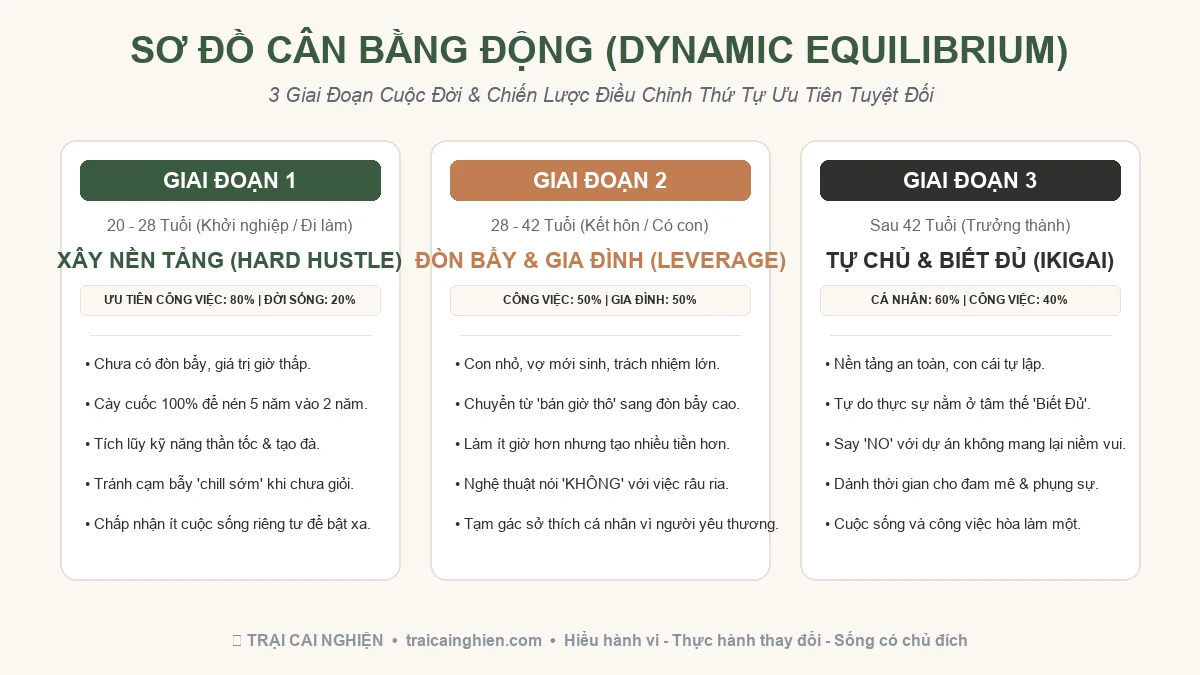
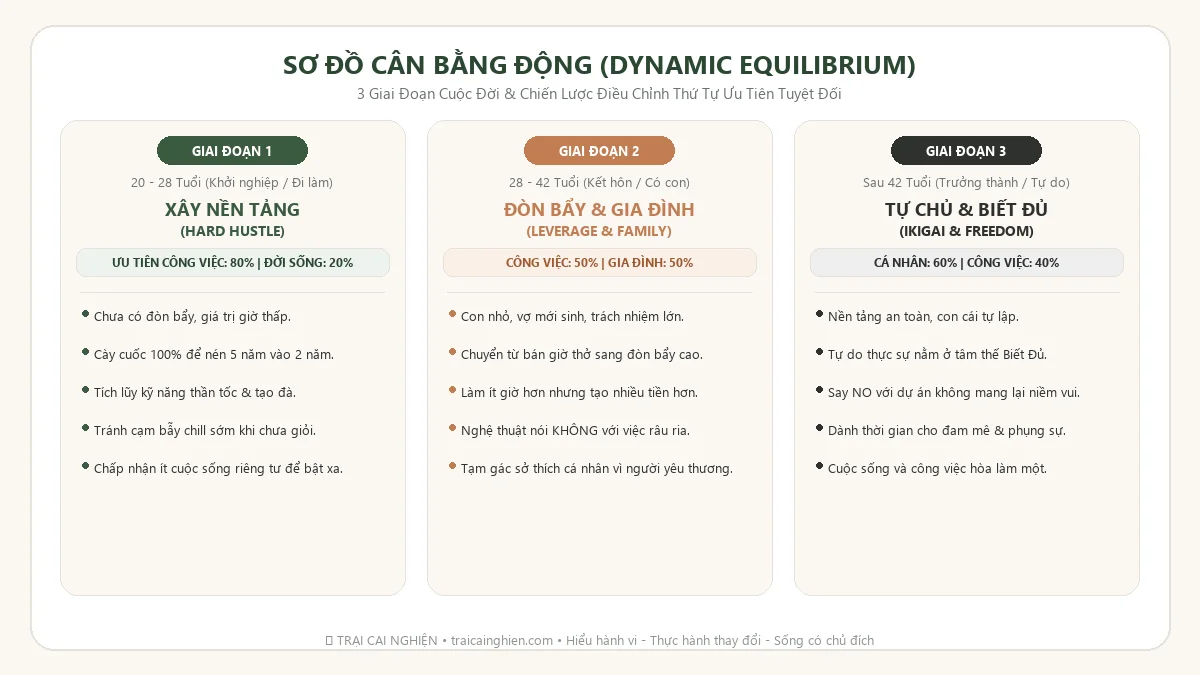
fix(article): standardize Zen watercolor thumbnail, eliminate raw tables, and fix infographic text overflow

diff --git a/src/data/articles.ts b/src/data/articles.ts
@@ -33,7 +33,7 @@ const rawArticles: Article[] = [
   ],
   "date": "31/10/2026",
   "readTime": "18 phút đọc",
-  "content": "Chưa đầy một tiếng sau khi chuông báo thức réo inh ỏi lúc 7h sáng, bạn đã thấy ngày mới của mình sụp đổ hoàn toàn trước những dự định lung linh tối qua.\n\nTối hôm trước, bạn lướt mạng xã hội và thấy video của một “lifestyle influencer”: 5h30 sáng dậy thiền định trong căn phòng ngập nắng, 6h chạy bộ 5km quanh công viên đón bình minh, 7h về nhà tự tay nướng bánh mì chua, pha ly nước ép cần tây xanh mướt, 8h ngồi vào bàn làm việc gỗ sồi với ly latte bốc khói, làm việc tập trung không ngắt quãng đến 17h chiều, tối về thong thả nấu bữa tối chuẩn Eat Clean, 21h đọc 50 trang sách triết học và 22h chìm vào giấc ngủ không mộng mị.\n\nBạn nhìn lại buổi sáng của mình: \n\nChuông reo từ 6h30 nhưng bạn tắt đi bấm hoãn 4 lần, mãi đến 7h15 mới bò ra khỏi chăn với đôi mắt cay xè vì tối qua trót cày nốt 3 tập phim Netflix đến gần 1h đêm. Bạn lao vào toilet đánh răng như đánh trận, vừa chải răng vừa lướt vội bảng tin Facebook. Con cái khóc ré lên vì tranh nhau cái áo, cặp sách chưa soạn xong, tiếng vợ giục giã inh ỏi trong bếp. \n\nBạn dắt xe ra đường và lập tức bị nuốt chửng bởi dòng người nghẹt thở ở ngã tư tắc đường. Dừng lại mua vội cái bánh mì kẹp thịt hay gói xôi lạc ven đường, bạn thậm chí không dám mua xôi xéo hành phi vì sợ mang lên công ty mùi mỡ sẽ ám khắp phòng khiến đồng nghiệp nhăn mặt. \n\n8h30 có mặt ở văn phòng, mở máy tính lên là một đống tin nhắn Zalo, Teams, Slack thông báo công việc dồn dập. Cái nào trông cũng khẩn cấp, nhưng não bạn thì tê liệt. Bạn lướt vu vơ vài tab chứng khoán, đọc lướt mấy tin giật gân, xem vài video short giải trí và giật mình nhận ra đã 11h trưa mà chưa làm xong nổi một việc ra hồn. \n\nBuổi chiều họp hành triền miên. 17h30 định xách túi về thì sếp gọi giao thêm việc gấp. Bạn ngồi lại cày đến 20h tối, bụng đói cồn cào đành tạt qua cửa hàng tiện lợi mua cái bánh bao trứng cút với lon nước ngọt ngồi ăn tạm bợ trên vỉa hè lộng gió. 21h30 về đến nhà, con đã ngủ say, vợ mệt mỏi nằm trên sofa, bồn bát đĩa vẫn ngổn ngang. Bạn lại lôi laptop ra gõ lạch cạch đến nửa đêm trong nỗi chán chường và tội lỗi ngập tràn:\n\n*“Sao cuộc đời mình lại nát thế này? Tại sao người khác vừa kiếm được tiền, vừa có thời gian tập gym, chăm con chu đáo mà mình đến một chút cân bằng tối thiểu cho bản thân cũng không làm nổi?”*\n\nNếu bạn đang mang trong mình sự dằn vặt đó, Trại Cai Nghiện muốn nói thẳng với bạn một sự thật giải thoát: **Work-Life Balance (Cân bằng giữa công việc và cuộc sống theo cách người ta vẫn rao giảng trên mạng) là một cú lừa hoàn hảo nhất thời hiện đại.**\n\nKhông có bất kỳ ai sống một đời thực tế mà có thể chia đều 24 giờ mỗi ngày thành những chiếc hộp ngăn nắp, hoàn hảo như tranh vẽ. Cái mà bạn cần không phải là sự cân bằng tĩnh học không tưởng đó. Cái mà bạn cần để cứu lấy sức khỏe tinh thần và sự nghiệp của mình là: **Nghệ thuật Cân Bằng Động (Dynamic Equilibrium) — Biết cách chọn chiến thắng ở từng thời điểm của cuộc đời.**\n\n---\n\n### 1. Cạm Bẫy Của Khái Niệm \"Work-Life Balance\"\n\nKhái niệm \"Cân bằng giữa công việc và cuộc sống\" bắt đầu bùng nổ từ cuối thế kỷ 20 tại phương Tây, xuất phát từ mong muốn chính đáng là bảo vệ người lao động khỏi sự bóc lột của các tập đoàn công nghiệp. Tuy nhiên, khi bước vào kỷ nguyên số hóa và mạng xã hội, khái niệm này đã bị biến tướng thành một tiêu chuẩn đạo đức độc hại.\n\nSự độc hại này bắt nguồn từ hai sai lầm nhận thức cốt tử:\n\n#### Sai lầm 1: Sự phân tách nhân tạo giữa \"Công việc\" và \"Cuộc sống\"\nCụm từ \"Work vs. Life\" ngầm mặc định rằng: **Công việc nằm ở một bên chiến tuyến, còn Cuộc sống nằm ở bên kia.** \n* Đi làm tức là đang bị đày đọa, đánh mất cuộc sống?\n* Còn về nhà, đi chơi, nằm dài thì mới được tính là \"đang sống\"?\n\nThực tế sinh học và xã hội không hề vận hành như vậy. **Công việc chính là một phần hữu cơ của cuộc sống.** \n\nLao động là nơi con người tạo ra giá trị, khẳng định năng lực bản thân, xây dựng các mối quan hệ xã hội và tìm kiếm ý nghĩa tồn tại (như tháp nhu cầu Maslow hay triết lý Ikigai). Không có một chiếc bút thần thánh nào của tạo hóa có thể kẻ một lằn ranh tuyệt đối cắt đôi một con người: từ 8h đến 17h là \"con robot công việc\", còn từ 17h đến 23h là \"con người gia đình\".\n\nChính tư duy nhị nguyên (chia đôi) này đã tạo ra **Căng thẳng đóng vai (Role Strain)** và **Cảm giác tội lỗi mãn tính (Chronic Guilt)** ở hàng triệu người:\n* Khi bạn đang ở văn phòng cày dự án, một phần tâm trí bạn lại lo lắng: *“Mình lại về muộn rồi, mình là một người cha/người mẹ tồi, mình không biết cân bằng cuộc sống.”*\n* Khi bạn đang ngồi ăn cơm với vợ con hoặc đi cà phê với bạn bè, chuông điện thoại rung lên một tin nhắn công việc khẩn cấp, bạn vừa gõ máy trả lời vừa cảm thấy tội lỗi vì không dành trọn vẹn sự chú ý cho gia đình.\n\nBạn như một người đứng trên một chiếc dây kéo căng giữa hai bờ vực: nghiêng sang bên nào cũng thấy mình có lỗi. Bạn kiệt sức không phải vì làm việc quá nhiều, mà vì năng lượng tinh thần bị bòn rút bởi cảm giác dằn vặt thường trực.\n\n#### Sai lầm 2: Tình huống đời thực không bao giờ có sự cân bằng 50/50\nHãy thử tưởng tượng hai tình huống thực tế sau đây và tự hỏi xem bạn sẽ chọn cái gì:\n\n* **Tình huống A:** Bạn đang chủ trì một cuộc họp chiến lược cực kỳ quan trọng với ban giám đốc và đối tác nước ngoài. Bỗng nhiên, cô giáo mầm non gọi điện hốt hoảng: *“Anh ơi, bé nhà mình bị ngã cầu thang rách trán chảy nhiều máu, nhà trường đang đưa cháu đi bệnh viện cấp cứu gấp!”*. Bạn có xin lỗi đối tác và lao ngay đến bệnh viện không? Chắc chắn 100% bạn sẽ bỏ lại cuộc họp mà đi.\n* **Tình huống B:** Bạn đã hứa cuối tuần này sẽ đưa cả nhà đi nghỉ dưỡng ở resort. Nhưng tối thứ Sáu, hệ thống thương mại điện tử của công ty bạn gặp sự cố kỹ thuật nghiêm trọng: giá sản phẩm 500.000đ bị cài nhầm thành 50.000đ, chỉ trong 30 phút đã có 2.000 đơn hàng ồ ạt đổ về, nguy cơ công ty phá sản hoặc đền bù tiền tỷ ngay trong đêm. Sếp gọi điện triệu tập khẩn cấp. Bạn có vác máy lên xử lý không? Hầu hết chúng ta đều phải xử lý ngay.\n\nTrong cả hai tình huống trên, không hề có cái gọi là \"cân bằng 50/50\". Tại mỗi khoảnh khắc cụ thể, **sẽ luôn có một thứ quan trọng vượt trội hơn tất cả những thứ còn lại.** Cuộc đời vốn dĩ là một chuỗi những biến số bất định đan xen. Đòi hỏi một ngày nào cũng êm ả chia đều thời gian là một ảo tưởng ấu trĩ.\n\n---\n\n### 2. Cạm Bẫy Tiêu Chuẩn Cao Và Chủ Nghĩa Hoàn Hảo (Perfectionism Trap)\n\nKhi đào sâu vào những lời than vãn *“Tôi bận quá, tôi hoàn toàn mất cân bằng, không có thời gian cho bản thân”*, các nhà tâm lý học hành vi phát hiện ra một sự thật trớ trêu: **Thủ phạm thực sự không phải là do thiếu thời gian, mà là do chiếc bẫy Tiêu chuẩn cao (High Standards Trap) của Chủ nghĩa hoàn hảo.**\n\nRất nhiều người tự đóng khung những khái niệm sống thành những hình ảnh cực kỳ xa hoa và phức tạp:\n\n* **“Tôi không có thời gian đi du lịch”:**  \n  Thực chất không phải họ không có 1-2 ngày nghỉ cuối tuần để về quê thăm ông bà hay cùng gia đình dựng lều ở một bãi cỏ ngoại ô. Cái họ định nghĩa là \"du lịch\" phải là: book vé máy bay đi Bali, ở resort 5 sao, chụp ảnh check-in sang chảnh. Vì không đủ tiền và chuỗi ngày nghỉ dài cho tiêu chuẩn đó, họ kết luận rằng mình \"bị công việc tước đoạt cuộc sống\".\n* **“Tôi không có thời gian tập thể dục”:**  \n  Họ nghĩ rằng tập thể dục là phải đăng ký thẻ tập ở các trung tâm cao cấp như California hay Elite Fitness, phải có huấn luyện viên cá nhân (PT) kèm cặp 1-1, phải mặc đồ tập hàng hiệu và dành trọn vẹn 90 phút mỗi buổi. Họ ngó lơ việc chỉ cần xỏ giày chạy bộ 15 phút quanh khu chung cư, hay hít đất 30 cái ngay cạnh giường ngủ vào mỗi sáng.\n* **“Tôi không có thời gian đọc sách, học hỏi”:**  \n  Họ mường tượng việc đọc sách là phải ngồi trong một quán cà phê tĩnh lặng phong cách vintage, nhâm nhi tách trà Earl Grey thơm lừng và đọc liền mạch 3 tiếng không ai làm phiền. Họ từ chối việc tận dụng 15 phút nghe sách nói trên đường đi làm, hay đọc đúng 5 trang sách trước khi chợp mắt.\n* **“Tôi không có thời gian bên con cái”:**  \n  Họ cảm thấy tội lỗi vì nghĩ rằng làm cha mẹ tốt là phải kè kè bên con 10–12 tiếng mỗi ngày. Nhưng thực tế, điều một đứa trẻ cần không phải là thời lượng thô (Quantity of Time) của một ông bố vừa ngồi cạnh con vừa bấm điện thoại, mà là **Sự hiện diện trọn vẹn (Quality of Presence)**: dù chỉ 20 phút mỗi tối, nhưng bạn bỏ hết điện thoại sang phòng khác, nằm nghe con kể chuyện trường lớp và cù léc cho con cười rạng rỡ.\n\nChủ nghĩa hoàn hảo biến mọi hành động chăm sóc bản thân và gia đình thành một \"dự án nặng nề\". Và khi không thể thực hiện được dự án đó một cách hoàn hảo 100%, bộ não sinh học sẽ chọn cách: **Bỏ cuộc hoàn toàn và nằm lướt điện thoại trong sự bất lực.**\n\n---\n\n### 3. Quy Luật Sinh Học Thần Kinh: Allostasis Thay Vì Homeostasis\n\nĐể thoát khỏi cái bẫy này, chúng ta cần mượn một khái niệm kinh điển trong y sinh học hiện đại: **Allostasis (Cân bằng nội môi động).**\n\nNăm 1988, hai nhà khoa học Peter Sterling và Joseph Eyer đã đưa ra khái niệm *Allostasis* để thay thế cho khái niệm *Homeostasis* (Cân bằng tĩnh cổ điển do Walter Cannon đề xuất).\n\n| Tiêu chí | Cân Bằng Tĩnh (Homeostasis) | Cân Bằng Động (Allostasis) |\n| :--- | :--- | :--- |\n| **Bản chất** | Duy trì một điểm mốc cố định (như nhiệt kế giữ nhiệt độ phòng 25°C). | Liên tục thay đổi trạng thái sinh học nội tại để thích ứng với biến động môi trường bên ngoài. |\n| **Góc nhìn về Work-Life** | Ngày nào cũng phải chia đều: 8h làm việc - 8h nghỉ ngơi - 8h ngủ. | Tùy từng thời kỳ: có tháng dồn 80% cho công việc, có tháng dành 70% cho gia đình. |\n| **Hệ quả tâm lý** | Căng thẳng, tự trách móc mỗi khi lịch trình bị đảo lộn. | Linh hoạt, chấp nhận biến động và chủ động điều phối năng lượng. |\n\nNão bộ và cơ thể con người không phải là một chiếc cân đĩa đứng yên. Bạn là một sinh vật sống phức tạp. Một người đi trên dây xiếc không bao giờ đứng thẳng đơ; họ liên tục nghiêng sang trái một chút, nghiêng sang phải một chút, gậy thăng bằng nhấp nhô không ngừng. **Chính sự nhấp nhô liên tục đó mới là thứ giúp họ tiến về phía trước mà không bị rơi xuống vực.**\n\nCân bằng trong đời thực là một hành trình động, chứ không phải là một trạng thái tĩnh.\n\n---\n\n### 4. Ba Giai Đoạn Cuộc Đời & Chiến Lược Ưu Tiên Tuyệt Đối\n\nCuộc đời làm việc của một người kéo dài trung bình 40 năm (từ 22 đến 62 tuổi). Nếu bạn cố gắng áp dụng một công thức sống duy nhất cho toàn bộ 40 năm đó, bạn sẽ thất bại thảm hại. \n\nThực tế, một sự nghiệp thành công và hạnh phúc thường đi qua **3 giai đoạn tiến hóa rõ rệt**, và ở mỗi giai đoạn, định nghĩa về \"Cân bằng\" sẽ hoàn toàn khác nhau:\n\n![Sơ đồ Cân Bằng Động: 3 Giai Đoạn Cuộc Đời & Chiến Lược Ưu Tiên](/images/articles/so-do-can-bang-dong-3-giai-doan.webp)\n*Sơ đồ Cân Bằng Động: Ba giai đoạn tiến hóa của sự nghiệp và cách điều chỉnh thứ tự ưu tiên sinh tồn.*\n\n#### Giai đoạn 1: Giai đoạn Xây nền tảng (Foundation & Hard Hustle: 20 - 28 Tuổi)\n* **Đặc điểm:** Bạn mới ra trường hoặc mới bắt đầu dấn thân vào một lĩnh vực mới. Bạn chưa có tên tuổi, chưa có kỹ năng xuất sắc, chưa có mối quan hệ sâu sắc và tài khoản ngân hàng gần như bằng không.\n* **Sai lầm chết người:** Đọc sách *“Tuần làm việc 4 giờ”*, nghe những lời khuyên hưởng thụ của các diễn giả mạng, vừa đi làm vừa đòi hỏi phải chill, không chịu tăng ca, không chịu nhận việc khó vì sợ \"mất cân bằng cuộc sống\". Khi bạn chưa giỏi, giá trị một giờ làm việc của bạn chỉ đáng vài chục ngàn đồng. Đòi \"chill\" lúc này đồng nghĩa với việc bạn sẽ mãi mãi kẹt lại ở tầng đáy của chuỗi giá trị.\n* **Chiến lược cân bằng lúc này:** **Chấp nhận dồn toàn lực cho công việc (Work-Heavy).**\n  - Giống như giới trẻ tại Thượng Hải, Thâm Quyến trong các công ty công nghệ: họ sẵn sàng làm việc 996 (từ 9h sáng đến 9h tối, 6 ngày/tuần) trong 2–3 năm đầu. \n  - Họ không có nhiều cuộc sống xã hội phù phiếm, nhưng đổi lại, họ nén thời gian học việc của 5 năm người khác vào 2 năm. Họ tích lũy kỹ năng thần tốc, xây dựng uy tín thực chiến và tạo đà bật cho cả chặng đường phía sau.\n  - Hãy nhớ: **Giai đoạn cày cuốc này chỉ kéo dài 2–3 năm nếu bạn dốc hết 100% tâm lực.** Nhưng nếu bạn vừa làm vừa chơi, nó sẽ kéo dài lê thê 10 năm và biến bạn thành một người trung niên loay hoay với mức lương làng nhàng.\n\n#### Giai đoạn 2: Giai đoạn Trưởng thành & Trách nhiệm Gia đình (Leverage & Family: 28 - 42 Tuổi)\n* **Đặc điểm:** Bạn bước vào độ tuổi kết hôn, sinh con. Bạn đã có một số thành tựu nhất định: lên vị trí quản lý, làm chủ một hệ thống kinh doanh nhỏ, hoặc nắm vững chuyên môn cốt lõi. Nhưng lúc này, trách nhiệm đời thực ập đến như vũ bão: con ốm, vợ mới sinh cần chăm sóc, mối quan hệ gia đình hai bên nội ngoại, các khoản trả góp mua nhà.\n* **Thực tế tàn nhẫn:** Bạn không thể nào duy trì cường độ làm việc 70–80 tiếng/tuần như thời trai trẻ độc thân được nữa. Nếu bạn vẫn cắm đầu làm việc từ sáng đến đêm, bỏ mặc người vợ mới sinh với những bất ổn tâm lý sau sinh và đứa con thơ thiếu hơi ấm của bố, gia đình bạn sẽ rạn nứt sâu sắc.\n* **Chiến lược cân bằng lúc này:** **Làm việc ít giờ hơn nhưng dùng đòn bẩy cao hơn (High-Leverage Work).**\n  - Bạn không thể bán sức lao động cơ bắp giá rẻ nữa. Bạn bắt buộc phải nâng cao hiệu suất trên mỗi giờ làm việc: học cách phân quyền, tự động hóa quy trình, loại bỏ các cuộc họp vô bổ.\n  - **Nghệ thuật nói \"KHÔNG\" (The Art of Saying NO):** Kiên quyết cắt bỏ những việc râu ria, những cuộc nhậu nhẹt xã giao không mang lại giá trị.\n  - **Tạm gác sở thích cá nhân:** Đây là giai đoạn bạn cần dũng cảm bấm nút tạm dừng (Pause) những đam mê riêng tốn nhiều thời gian (chơi game, đi phượt dài ngày, tụ tập thâu đêm). Sự hy sinh này không phải là mất mát, mà là sự trưởng thành tự nguyện vì những người bạn yêu thương nhất.\n\n#### Giai đoạn 3: Giai đoạn Tự chủ & Biết Đủ (Autonomy & Ikigai: Sau 42 Tuổi)\n* **Đặc điểm:** Bạn đã tích lũy đủ nền tảng tài chính an toàn (đủ lo cho con cái học hành, đủ quỹ dự phòng khẩn cấp), con cái đã bắt đầu lớn và tự lập hơn.\n* **Bí quyết cốt lõi:** **Tự do thực sự nằm ở chữ \"BIẾT ĐỦ\".**\n  - Tự do tài chính không nhất thiết phải có hàng trăm tỷ đồng. Nếu bạn có hàng trăm tỷ nhưng lòng tham và nỗi sợ vẫn giam cầm bạn trong guồng quay công việc 14 tiếng/ngày thì bạn vẫn chỉ là một người làm thuê cho chính khối tài sản của mình.\n  - Biết đủ là khi bạn có quyền dõng dạc nói: *\"Tôi từ chối hợp đồng này dù nó có trả 50 triệu/buổi, đơn giản vì tôi muốn dành chiều thứ Bảy đi câu cá hoặc đọc một cuốn sách hay.\"*\n  - Lúc này, chiếc bập bênh cuộc sống nghiêng hẳn về chiều sâu tâm hồn, sự phụng sự cộng đồng và những đam mê cá nhân mà bạn từng phải kìm nén ở hai giai đoạn trước.\n\n---\n\n### 5. Khái Niệm \"Cân Bằng Động Vĩ Mô\" (Macro-Balance): Bài Học Từ Giải Ngoại Hạng Anh\n\nLàm sao để hiện thực hóa triết lý này vào đời sống hàng ngày? Hãy thay đổi thang đo thời gian của bạn từ **Vi mô (Theo ngày)** sang **Vĩ mô (Theo tuần, tháng hoặc năm).**\n\nHãy nhìn vào một đội bóng vô địch giải Ngoại Hạng Anh (Premier League). Để nâng cao chiếc cúp vô địch sau 38 vòng đấu khốc liệt:\n* Họ có cần phải thắng tất cả 38 trận không? **Không bao giờ.**\n* Sẽ có những trận họ thắng tưng bừng 4-0. Sẽ có những trận họ bị cầm hòa nhạt nhòa 0-0. Và chắc chắn sẽ có những trận họ thua tan nát trước các đối thủ khó chịu.\n* Nhưng một đội bóng bản lĩnh không sụp đổ chỉ vì một trận thua vào cuối tuần. Họ nhìn vào **bảng tổng sắp cả mùa giải**. Sau 38 vòng, đội nào duy trì được điểm số tích lũy cao nhất, đội đó là nhà vô địch.\n\nCuộc đời của bạn cũng y hệt như vậy:\n\n| Chu kỳ | Trạng thái điều phối năng lượng | Mục tiêu cốt lõi |\n| :--- | :--- | :--- |\n| **Tháng 1 - Tháng 3** | Cày cuốc dự án mới (Công việc 80% - Đời sống 20%) | Bứt phá doanh số, chiếm lĩnh thị trường |\n| **Tháng 4 (Nghỉ 1 tuần)** | Nghỉ dưỡng chữa lành (Đời sống 90% - Công việc 10%) | Bù đắp tình cảm gia đình, sạc lại năng lượng |\n| **Tháng 5 - Tháng 10** | Vận hành ổn định (Công việc 60% - Đời sống 40%) | Tối ưu hóa đòn bẩy, duy trì thói quen tốt |\n| **Tổng kết năm** | Điểm số tích lũy chung cuộc đạt đỉnh | Đạt mục tiêu tài chính & Giữ trọn hạnh phúc gia đình |\n\nĐừng tự đày đọa mình nếu ngày hôm nay bạn phải ở lại công ty làm việc đến 21h đêm và không kịp ăn tối với gia đình. Miễn là bạn hiểu rằng đây là một trận đấu bạn chấp nhận \"hy sinh tạm thời\" cho một chiến dịch ngắn hạn. Sau khi dự án kết thúc, bạn chủ động bù đắp bằng một chuyến đi chơi trọn vẹn 3 ngày cuối tuần không mang theo laptop. \n\n* **Trong một giai đoạn:** Sống sót qua mùa dịch được tính là chiến thắng.\n* **Trong một giai đoạn:** Vợ sinh con khỏe mạnh, mẹ tròn con vuông được tính là chiến thắng.\n* **Trong một giai đoạn:** Hoàn thành xong chứng chỉ chuyên môn để lên chức được tính là chiến thắng.\n* **Trong một giai đoạn:** Cứu vãn được sức khỏe sau cơn kiệt sức được tính là chiến thắng.\n\nNgười khôn ngoan không cố gắng thắng trong mọi hiệp đấu của từng ngày. Họ biết rõ mình đang chơi trò chơi gì và phân bổ sức bền để chiến thắng trong cả cuộc đời.\n\n---\n\n### 6. Bộ Quy Tắc Thực Hành: \"Làm Việc Nhanh – Sống Thật Chậm\" (Work Fast, Live Slow)\n\nĐể không bị cuốn vào vòng xoáy áp lực mà vẫn tạo ra kết quả xuất sắc, đây là hai nguyên tắc hành động thực chiến mà bạn có thể áp dụng ngay hôm nay:\n\n#### Nguyên tắc 1: Làm việc nhanh (Work Fast & Deep)\n* **Triệt tiêu ma sát trì hoãn:** Khi đã ngồi vào bàn làm việc, hãy sử dụng quy tắc **Dòng chảy (Flow State)**. Tắt toàn bộ thông báo điện thoại, đóng các tab mạng xã hội, làm dứt điểm từng việc theo khối thời gian (Time-blocking).\n* **Quy tắc 80/20:** 20% công việc tạo ra 80% kết quả. Hãy xử lý việc quan trọng nhất ngay đầu ngày. Đừng để những việc râu ria làm bạn mất nửa buổi sáng rồi phải ngồi cày đêm bù giờ.\n* **Làm việc nhanh để giải phóng bản thân:** Mục đích của việc làm việc năng suất không phải là để nhận thêm việc, mà là để **mua lại thời gian tự do cho chính mình.**\n\n#### Nguyên tắc 2: Sống thật chậm (Live Slow & Present)\n* **Giảm tốc độ thần kinh khi bước qua cánh cửa nhà:** Khi tan sở về đến nhà, hãy học cách \"cởi bỏ chiếc áo giáp chiến binh\". Hít thở sâu ba nhịp trước khi vặn tay nắm cửa.\n* **Hiệu ứng Hiện diện Tuyệt đối:** Khi ăn cơm cùng vợ, hãy thực sự nếm vị ngọt của hạt cơm, lắng nghe giọng nói của bạn đời. Khi chơi với con, hãy biến mình thành một đứa trẻ, lăn lộn cùng con trên sàn nhà mà không liếc mắt nhìn màn hình điện thoại một lần nào.\n* **Tích hợp cuộc sống và công việc (Life Integration):** Tìm kiếm những điểm giao thoa lành mạnh. Bạn yêu thích du lịch, cà phê hay cắm trại? Hãy biến những sở thích đó thành không gian gắn kết gia đình, đồng thời học hỏi thêm những góc nhìn mới để làm giàu cho tư duy công việc. Khi cuộc sống và công việc hỗ trợ nhau thay vì triệt tiêu nhau, bạn sẽ đạt được trạng thái bình an nội tại.\n\n---\n\n### 7. Lời Nhắn Gửi Từ Trại Cai Nghiện\n\nBạn thân mến,\n\nHình ảnh một chú hề đi trên dây xiếc loạng choạng từng bước là bức tranh chân thực nhất về cuộc đời của mỗi chúng ta. Có những ngày bạn sẽ nghiêng hẳn về công việc. Có những ngày bạn sẽ chao đảo vì những lo toan gia đình. \n\nNhưng xin bạn đừng bao giờ nhìn sự loạng choạng đó như một bằng chứng của sự thất bại. **Chính sự điều chỉnh liên tục sau mỗi lần mất thăng bằng mới là bản chất của sự sống.**\n\nCuộc sống không phải là một bức tranh tĩnh vật hoàn mỹ để bạn đóng khung treo lên tường ngắm nghía. Cuộc sống là một dòng sông luôn cuộn chảy. Hãy tha thứ cho những ngày bạn lỡ ăn một gói xôi vội vã ven đường, tha thứ cho những buổi tối bạn mệt mỏi không thể đọc sách, và dũng cảm buông bỏ ảo tưởng về một sự cân bằng tuyệt đối.\n\nHãy sống như một dòng nước: gặp ghềnh đá thì chia nhánh, gặp chỗ trũng thì lấp đầy, và luôn biết rõ bến đỗ bình yên cuối cùng của đời mình là ở đâu.\n\n---\n\n### 📌 NHỮNG ĐIỂM CHÍNH (KEY TAKEAWAYS)\n\n1. **Ảo tưởng Work-Life Balance:** Công việc không đối lập với cuộc sống, mà là một phần hữu cơ của cuộc sống. Cố gắng chia đều 50/50 mỗi ngày chỉ tạo ra cảm giác tội lỗi mãn tính và kiệt quệ tinh thần.\n2. **Cạm bẫy Tiêu chuẩn cao:** Rất nhiều người nghĩ mình thiếu thời gian, nhưng thực chất là do chủ nghĩa hoàn hảo đặt ra những tiêu chuẩn quá xa vời (du lịch phải sang chảnh, tập gym phải có PT, đọc sách phải ngồi cà phê 3 tiếng).\n3. **Cân Bằng Động (Allostasis):** Cơ thể và tâm trí con người vận hành theo cơ chế thích ứng động. Cân bằng thực sự là khả năng điều chỉnh thứ tự ưu tiên linh hoạt theo từng giai đoạn và thời điểm.\n4. **Ba giai đoạn sự nghiệp:**\n   * *Giai đoạn 1 (Xây nền tảng):* Chấp nhận cày cuốc, nỗ lực 100% để tích lũy kỹ năng và tạo đà bật nhảy.\n   * *Giai đoạn 2 (Trưởng thành & Gia đình):* Chuyển sang công việc có đòn bẩy cao, học cách nói KHÔNG và tạm gác sở thích cá nhân vì trách nhiệm gia đình.\n   * *Giai đoạn 3 (Tự chủ & Biết đủ):* Đạt ngưỡng biết đủ về tài chính để có quyền tự do lựa chọn công việc và sống cho những đam mê sâu sắc.\n5. **Cân bằng vĩ mô (Macro-Balance):** Đừng đo sự cân bằng theo từng 24 giờ. Hãy nhìn theo chu kỳ tháng, quý hoặc năm như một đội bóng vô địch giải Ngoại Hạng Anh: không cần thắng mọi trận đấu, chỉ cần điểm số chung cuộc đưa bạn về đích an toàn.\n6. **Làm việc nhanh – Sống thật chậm:** Khi làm việc thì tập trung cao độ để dứt điểm nhanh gọn; khi về nhà thì hiện diện trọn vẹn 100% bên những người yêu thương."
+  "content": "Chưa đầy một tiếng sau khi chuông báo thức réo inh ỏi lúc 7h sáng, bạn đã thấy ngày mới của mình sụp đổ hoàn toàn trước những dự định lung linh tối qua.\n\nTối hôm trước, bạn lướt mạng xã hội và thấy video của một “lifestyle influencer”: 5h30 sáng dậy thiền định trong căn phòng ngập nắng, 6h chạy bộ 5km quanh công viên đón bình minh, 7h về nhà tự tay nướng bánh mì chua, pha ly nước ép cần tây xanh mướt, 8h ngồi vào bàn làm việc gỗ sồi với ly latte bốc khói, làm việc tập trung không ngắt quãng đến 17h chiều, tối về thong thả nấu bữa tối chuẩn Eat Clean, 21h đọc 50 trang sách triết học và 22h chìm vào giấc ngủ không mộng mị.\n\nBạn nhìn lại buổi sáng của mình: \n\nChuông reo từ 6h30 nhưng bạn tắt đi bấm hoãn 4 lần, mãi đến 7h15 mới bò ra khỏi chăn với đôi mắt cay xè vì tối qua trót cày nốt 3 tập phim Netflix đến gần 1h đêm. Bạn lao vào toilet đánh răng như đánh trận, vừa chải răng vừa lướt vội bảng tin Facebook. Con cái khóc ré lên vì tranh nhau cái áo, cặp sách chưa soạn xong, tiếng vợ giục giã inh ỏi trong bếp. \n\nBạn dắt xe ra đường và lập tức bị nuốt chửng bởi dòng người nghẹt thở ở ngã tư tắc đường. Dừng lại mua vội cái bánh mì kẹp thịt hay gói xôi lạc ven đường, bạn thậm chí không dám mua xôi xéo hành phi vì sợ mang lên công ty mùi mỡ sẽ ám khắp phòng khiến đồng nghiệp nhăn mặt. \n\n8h30 có mặt ở văn phòng, mở máy tính lên là một đống tin nhắn Zalo, Teams, Slack thông báo công việc dồn dập. Cái nào trông cũng khẩn cấp, nhưng não bạn thì tê liệt. Bạn lướt vu vơ vài tab chứng khoán, đọc lướt mấy tin giật gân, xem vài video short giải trí và giật mình nhận ra đã 11h trưa mà chưa làm xong nổi một việc ra hồn. \n\nBuổi chiều họp hành triền miên. 17h30 định xách túi về thì sếp gọi giao thêm việc gấp. Bạn ngồi lại cày đến 20h tối, bụng đói cồn cào đành tạt qua cửa hàng tiện lợi mua cái bánh bao trứng cút với lon nước ngọt ngồi ăn tạm bợ trên vỉa hè lộng gió. 21h30 về đến nhà, con đã ngủ say, vợ mệt mỏi nằm trên sofa, bồn bát đĩa vẫn ngổn ngang. Bạn lại lôi laptop ra gõ lạch cạch đến nửa đêm trong nỗi chán chường và tội lỗi ngập tràn:\n\n*“Sao cuộc đời mình lại nát thế này? Tại sao người khác vừa kiếm được tiền, vừa có thời gian tập gym, chăm con chu đáo mà mình đến một chút cân bằng tối thiểu cho bản thân cũng không làm nổi?”*\n\nNếu bạn đang mang trong mình sự dằn vặt đó, Trại Cai Nghiện muốn nói thẳng với bạn một sự thật giải thoát: **Work-Life Balance (Cân bằng giữa công việc và cuộc sống theo cách người ta vẫn rao giảng trên mạng) là một cú lừa hoàn hảo nhất thời hiện đại.**\n\nKhông có bất kỳ ai sống một đời thực tế mà có thể chia đều 24 giờ mỗi ngày thành những chiếc hộp ngăn nắp, hoàn hảo như tranh vẽ. Cái mà bạn cần không phải là sự cân bằng tĩnh học không tưởng đó. Cái mà bạn cần để cứu lấy sức khỏe tinh thần và sự nghiệp của mình là: **Nghệ thuật Cân Bằng Động (Dynamic Equilibrium) — Biết cách chọn chiến thắng ở từng thời điểm của cuộc đời.**\n\n---\n\n### 1. Cạm Bẫy Của Khái Niệm \"Work-Life Balance\"\n\nKhái niệm \"Cân bằng giữa công việc và cuộc sống\" bắt đầu bùng nổ từ cuối thế kỷ 20 tại phương Tây, xuất phát từ mong muốn chính đáng là bảo vệ người lao động khỏi sự bóc lột của các tập đoàn công nghiệp. Tuy nhiên, khi bước vào kỷ nguyên số hóa và mạng xã hội, khái niệm này đã bị biến tướng thành một tiêu chuẩn đạo đức độc hại.\n\nSự độc hại này bắt nguồn từ hai sai lầm nhận thức cốt tử:\n\n#### Sai lầm 1: Sự phân tách nhân tạo giữa \"Công việc\" và \"Cuộc sống\"\nCụm từ \"Work vs. Life\" ngầm mặc định rằng: **Công việc nằm ở một bên chiến tuyến, còn Cuộc sống nằm ở bên kia.** \n* Đi làm tức là đang bị đày đọa, đánh mất cuộc sống?\n* Còn về nhà, đi chơi, nằm dài thì mới được tính là \"đang sống\"?\n\nThực tế sinh học và xã hội không hề vận hành như vậy. **Công việc chính là một phần hữu cơ của cuộc sống.** \n\nLao động là nơi con người tạo ra giá trị, khẳng định năng lực bản thân, xây dựng các mối quan hệ xã hội và tìm kiếm ý nghĩa tồn tại (như tháp nhu cầu Maslow hay triết lý Ikigai). Không có một chiếc bút thần thánh nào của tạo hóa có thể kẻ một lằn ranh tuyệt đối cắt đôi một con người: từ 8h đến 17h là \"con robot công việc\", còn từ 17h đến 23h là \"con người gia đình\".\n\nChính tư duy nhị nguyên (chia đôi) này đã tạo ra **Căng thẳng đóng vai (Role Strain)** và **Cảm giác tội lỗi mãn tính (Chronic Guilt)** ở hàng triệu người:\n* Khi bạn đang ở văn phòng cày dự án, một phần tâm trí bạn lại lo lắng: *“Mình lại về muộn rồi, mình là một người cha/người mẹ tồi, mình không biết cân bằng cuộc sống.”*\n* Khi bạn đang ngồi ăn cơm với vợ con hoặc đi cà phê với bạn bè, chuông điện thoại rung lên một tin nhắn công việc khẩn cấp, bạn vừa gõ máy trả lời vừa cảm thấy tội lỗi vì không dành trọn vẹn sự chú ý cho gia đình.\n\nBạn như một người đứng trên một chiếc dây kéo căng giữa hai bờ vực: nghiêng sang bên nào cũng thấy mình có lỗi. Bạn kiệt sức không phải vì làm việc quá nhiều, mà vì năng lượng tinh thần bị bòn rút bởi cảm giác dằn vặt thường trực.\n\n#### Sai lầm 2: Tình huống đời thực không bao giờ có sự cân bằng 50/50\nHãy thử tưởng tượng hai tình huống thực tế sau đây và tự hỏi xem bạn sẽ chọn cái gì:\n\n* **Tình huống A:** Bạn đang chủ trì một cuộc họp chiến lược cực kỳ quan trọng với ban giám đốc và đối tác nước ngoài. Bỗng nhiên, cô giáo mầm non gọi điện hốt hoảng: *“Anh ơi, bé nhà mình bị ngã cầu thang rách trán chảy nhiều máu, nhà trường đang đưa cháu đi bệnh viện cấp cứu gấp!”*. Bạn có xin lỗi đối tác và lao ngay đến bệnh viện không? Chắc chắn 100% bạn sẽ bỏ lại cuộc họp mà đi.\n* **Tình huống B:** Bạn đã hứa cuối tuần này sẽ đưa cả nhà đi nghỉ dưỡng ở resort. Nhưng tối thứ Sáu, hệ thống thương mại điện tử của công ty bạn gặp sự cố kỹ thuật nghiêm trọng: giá sản phẩm 500.000đ bị cài nhầm thành 50.000đ, chỉ trong 30 phút đã có 2.000 đơn hàng ồ ạt đổ về, nguy cơ công ty phá sản hoặc đền bù tiền tỷ ngay trong đêm. Sếp gọi điện triệu tập khẩn cấp. Bạn có vác máy lên xử lý không? Hầu hết chúng ta đều phải xử lý ngay.\n\nTrong cả hai tình huống trên, không hề có cái gọi là \"cân bằng 50/50\". Tại mỗi khoảnh khắc cụ thể, **sẽ luôn có một thứ quan trọng vượt trội hơn tất cả những thứ còn lại.** Cuộc đời vốn dĩ là một chuỗi những biến số bất định đan xen. Đòi hỏi một ngày nào cũng êm ả chia đều thời gian là một ảo tưởng ấu trĩ.\n\n---\n\n### 2. Cạm Bẫy Tiêu Chuẩn Cao Và Chủ Nghĩa Hoàn Hảo (Perfectionism Trap)\n\nKhi đào sâu vào những lời than vãn *“Tôi bận quá, tôi hoàn toàn mất cân bằng, không có thời gian cho bản thân”*, các nhà tâm lý học hành vi phát hiện ra một sự thật trớ trêu: **Thủ phạm thực sự không phải là do thiếu thời gian, mà là do chiếc bẫy Tiêu chuẩn cao (High Standards Trap) của Chủ nghĩa hoàn hảo.**\n\nRất nhiều người tự đóng khung những khái niệm sống thành những hình ảnh cực kỳ xa hoa và phức tạp:\n\n* **“Tôi không có thời gian đi du lịch”:**  \n  Thực chất không phải họ không có 1-2 ngày nghỉ cuối tuần để về quê thăm ông bà hay cùng gia đình dựng lều ở một bãi cỏ ngoại ô. Cái họ định nghĩa là \"du lịch\" phải là: book vé máy bay đi Bali, ở resort 5 sao, chụp ảnh check-in sang chảnh. Vì không đủ tiền và chuỗi ngày nghỉ dài cho tiêu chuẩn đó, họ kết luận rằng mình \"bị công việc tước đoạt cuộc sống\".\n* **“Tôi không có thời gian tập thể dục”:**  \n  Họ nghĩ rằng tập thể dục là phải đăng ký thẻ tập ở các trung tâm cao cấp như California hay Elite Fitness, phải có huấn luyện viên cá nhân (PT) kèm cặp 1-1, phải mặc đồ tập hàng hiệu và dành trọn vẹn 90 phút mỗi buổi. Họ ngó lơ việc chỉ cần xỏ giày chạy bộ 15 phút quanh khu chung cư, hay hít đất 30 cái ngay cạnh giường ngủ vào mỗi sáng.\n* **“Tôi không có thời gian đọc sách, học hỏi”:**  \n  Họ mường tượng việc đọc sách là phải ngồi trong một quán cà phê tĩnh lặng phong cách vintage, nhâm nhi tách trà Earl Grey thơm lừng và đọc liền mạch 3 tiếng không ai làm phiền. Họ từ chối việc tận dụng 15 phút nghe sách nói trên đường đi làm, hay đọc đúng 5 trang sách trước khi chợp mắt.\n* **“Tôi không có thời gian bên con cái”:**  \n  Họ cảm thấy tội lỗi vì nghĩ rằng làm cha mẹ tốt là phải kè kè bên con 10–12 tiếng mỗi ngày. Nhưng thực tế, điều một đứa trẻ cần không phải là thời lượng thô (Quantity of Time) của một ông bố vừa ngồi cạnh con vừa bấm điện thoại, mà là **Sự hiện diện trọn vẹn (Quality of Presence)**: dù chỉ 20 phút mỗi tối, nhưng bạn bỏ hết điện thoại sang phòng khác, nằm nghe con kể chuyện trường lớp và cù léc cho con cười rạng rỡ.\n\nChủ nghĩa hoàn hảo biến mọi hành động chăm sóc bản thân và gia đình thành một \"dự án nặng nề\". Và khi không thể thực hiện được dự án đó một cách hoàn hảo 100%, bộ não sinh học sẽ chọn cách: **Bỏ cuộc hoàn toàn và nằm lướt điện thoại trong sự bất lực.**\n\n---\n\n### 3. Quy Luật Sinh Học Thần Kinh: Allostasis Thay Vì Homeostasis\n\nĐể thoát khỏi cái bẫy này, chúng ta cần mượn một khái niệm kinh điển trong y sinh học hiện đại: **Allostasis (Cân bằng nội môi động).**\n\nNăm 1988, hai nhà khoa học Peter Sterling và Joseph Eyer đã đưa ra khái niệm *Allostasis* để thay thế cho khái niệm *Homeostasis* (Cân bằng tĩnh cổ điển do Walter Cannon đề xuất).\n\nĐể bạn dễ hình dung sự khác biệt mang tính bước ngoặt này, hãy đặt hai tư duy lên bàn cân so sánh:\n\n* **Về bản chất sinh học:**\n  * *Cân bằng tĩnh (Homeostasis):* Cố chấp duy trì một điểm mốc cố định bất di bất dịch (giống như chiếc nhiệt kế luôn ép nhiệt độ phòng phải đúng 25°C). Khiến bạn luôn rơi vào trạng thái căng thẳng và tự dằn vặt mỗi khi lịch trình bị xáo trộn.\n  * *Cân bằng động (Allostasis):* Cơ thể liên tục thay đổi trạng thái sinh học nội tại để thích ứng linh hoạt với áp lực thực tế bên ngoài.\n\n* **Về góc nhìn phân bổ công việc & đời sống:**\n  * *Cân bằng tĩnh:* Ảo tưởng ngày nào cũng phải chia đều tăm tắp 8 tiếng làm việc – 8 tiếng nghỉ ngơi – 8 tiếng ngủ.\n  * *Cân bằng động:* Thừa nhận cuộc sống luôn có mùa vụ. Có tháng cần dồn 80% sức lực cho một dự án sống còn; nhưng cũng có tuần bạn chủ động dành 70% thời gian để chữa lành và chăm sóc gia đình.\n\n* **Về hệ quả tâm lý lâu dài:**\n  * *Cân bằng tĩnh:* Kiệt quệ tinh thần, luôn sống trong mặc cảm tội lỗi mãn tính vì không bao giờ đạt được sự hoàn hảo như mạng xã hội vẽ ra.\n  * *Cân bằng động:* Thong dong, chấp nhận sự biến động như một phần tất yếu của cuộc sống và chủ động làm chủ nguồn năng lượng sinh học của mình.\n\nNão bộ và cơ thể con người không phải là một chiếc cân đĩa đứng yên. Bạn là một sinh vật sống phức tạp. Một người đi trên dây xiếc không bao giờ đứng thẳng đơ; họ liên tục nghiêng sang trái một chút, nghiêng sang phải một chút, gậy thăng bằng nhấp nhô không ngừng. **Chính sự nhấp nhô liên tục đó mới là thứ giúp họ tiến về phía trước mà không bị rơi xuống vực.**\n\nCân bằng trong đời thực là một hành trình động, chứ không phải là một trạng thái tĩnh.\n\n---\n\n### 4. Ba Giai Đoạn Cuộc Đời & Chiến Lược Ưu Tiên Tuyệt Đối\n\nCuộc đời làm việc của một người kéo dài trung bình 40 năm (từ 22 đến 62 tuổi). Nếu bạn cố gắng áp dụng một công thức sống duy nhất cho toàn bộ 40 năm đó, bạn sẽ thất bại thảm hại. \n\nThực tế, một sự nghiệp thành công và hạnh phúc thường đi qua **3 giai đoạn tiến hóa rõ rệt**, và ở mỗi giai đoạn, định nghĩa về \"Cân bằng\" sẽ hoàn toàn khác nhau:\n\n![Sơ đồ Cân Bằng Động: 3 Giai Đoạn Cuộc Đời & Chiến Lược Ưu Tiên](/images/articles/so-do-can-bang-dong-3-giai-doan.webp)\n*Sơ đồ Cân Bằng Động: Ba giai đoạn tiến hóa của sự nghiệp và cách điều chỉnh thứ tự ưu tiên sinh tồn.*\n\n#### Giai đoạn 1: Giai đoạn Xây nền tảng (Foundation & Hard Hustle: 20 - 28 Tuổi)\n* **Đặc điểm:** Bạn mới ra trường hoặc mới bắt đầu dấn thân vào một lĩnh vực mới. Bạn chưa có tên tuổi, chưa có kỹ năng xuất sắc, chưa có mối quan hệ sâu sắc và tài khoản ngân hàng gần như bằng không.\n* **Sai lầm chết người:** Đọc sách *“Tuần làm việc 4 giờ”*, nghe những lời khuyên hưởng thụ của các diễn giả mạng, vừa đi làm vừa đòi hỏi phải chill, không chịu tăng ca, không chịu nhận việc khó vì sợ \"mất cân bằng cuộc sống\". Khi bạn chưa giỏi, giá trị một giờ làm việc của bạn chỉ đáng vài chục ngàn đồng. Đòi \"chill\" lúc này đồng nghĩa với việc bạn sẽ mãi mãi kẹt lại ở tầng đáy của chuỗi giá trị.\n* **Chiến lược cân bằng lúc này:** **Chấp nhận dồn toàn lực cho công việc (Work-Heavy).**\n  - Giống như giới trẻ tại Thượng Hải, Thâm Quyến trong các công ty công nghệ: họ sẵn sàng làm việc 996 (từ 9h sáng đến 9h tối, 6 ngày/tuần) trong 2–3 năm đầu. \n  - Họ không có nhiều cuộc sống xã hội phù phiếm, nhưng đổi lại, họ nén thời gian học việc của 5 năm người khác vào 2 năm. Họ tích lũy kỹ năng thần tốc, xây dựng uy tín thực chiến và tạo đà bật cho cả chặng đường phía sau.\n  - Hãy nhớ: **Giai đoạn cày cuốc này chỉ kéo dài 2–3 năm nếu bạn dốc hết 100% tâm lực.** Nhưng nếu bạn vừa làm vừa chơi, nó sẽ kéo dài lê thê 10 năm và biến bạn thành một người trung niên loay hoay với mức lương làng nhàng.\n\n#### Giai đoạn 2: Giai đoạn Trưởng thành & Trách nhiệm Gia đình (Leverage & Family: 28 - 42 Tuổi)\n* **Đặc điểm:** Bạn bước vào độ tuổi kết hôn, sinh con. Bạn đã có một số thành tựu nhất định: lên vị trí quản lý, làm chủ một hệ thống kinh doanh nhỏ, hoặc nắm vững chuyên môn cốt lõi. Nhưng lúc này, trách nhiệm đời thực ập đến như vũ bão: con ốm, vợ mới sinh cần chăm sóc, mối quan hệ gia đình hai bên nội ngoại, các khoản trả góp mua nhà.\n* **Thực tế tàn nhẫn:** Bạn không thể nào duy trì cường độ làm việc 70–80 tiếng/tuần như thời trai trẻ độc thân được nữa. Nếu bạn vẫn cắm đầu làm việc từ sáng đến đêm, bỏ mặc người vợ mới sinh với những bất ổn tâm lý sau sinh và đứa con thơ thiếu hơi ấm của bố, gia đình bạn sẽ rạn nứt sâu sắc.\n* **Chiến lược cân bằng lúc này:** **Làm việc ít giờ hơn nhưng dùng đòn bẩy cao hơn (High-Leverage Work).**\n  - Bạn không thể bán sức lao động cơ bắp giá rẻ nữa. Bạn bắt buộc phải nâng cao hiệu suất trên mỗi giờ làm việc: học cách phân quyền, tự động hóa quy trình, loại bỏ các cuộc họp vô bổ.\n  - **Nghệ thuật nói \"KHÔNG\" (The Art of Saying NO):** Kiên quyết cắt bỏ những việc râu ria, những cuộc nhậu nhẹt xã giao không mang lại giá trị.\n  - **Tạm gác sở thích cá nhân:** Đây là giai đoạn bạn cần dũng cảm bấm nút tạm dừng (Pause) những đam mê riêng tốn nhiều thời gian (chơi game, đi phượt dài ngày, tụ tập thâu đêm). Sự hy sinh này không phải là mất mát, mà là sự trưởng thành tự nguyện vì những người bạn yêu thương nhất.\n\n#### Giai đoạn 3: Giai đoạn Tự chủ & Biết Đủ (Autonomy & Ikigai: Sau 42 Tuổi)\n* **Đặc điểm:** Bạn đã tích lũy đủ nền tảng tài chính an toàn (đủ lo cho con cái học hành, đủ quỹ dự phòng khẩn cấp), con cái đã bắt đầu lớn và tự lập hơn.\n* **Bí quyết cốt lõi:** **Tự do thực sự nằm ở chữ \"BIẾT ĐỦ\".**\n  - Tự do tài chính không nhất thiết phải có hàng trăm tỷ đồng. Nếu bạn có hàng trăm tỷ nhưng lòng tham và nỗi sợ vẫn giam cầm bạn trong guồng quay công việc 14 tiếng/ngày thì bạn vẫn chỉ là một người làm thuê cho chính khối tài sản của mình.\n  - Biết đủ là khi bạn có quyền dõng dạc nói: *\"Tôi từ chối hợp đồng này dù nó có trả 50 triệu/buổi, đơn giản vì tôi muốn dành chiều thứ Bảy đi câu cá hoặc đọc một cuốn sách hay.\"*\n  - Lúc này, chiếc bập bênh cuộc sống nghiêng hẳn về chiều sâu tâm hồn, sự phụng sự cộng đồng và những đam mê cá nhân mà bạn từng phải kìm nén ở hai giai đoạn trước.\n\n---\n\n### 5. Khái Niệm \"Cân Bằng Động Vĩ Mô\" (Macro-Balance): Bài Học Từ Giải Ngoại Hạng Anh\n\nLàm sao để hiện thực hóa triết lý này vào đời sống hàng ngày? Hãy thay đổi thang đo thời gian của bạn từ **Vi mô (Theo ngày)** sang **Vĩ mô (Theo tuần, tháng hoặc năm).**\n\nHãy nhìn vào một đội bóng vô địch giải Ngoại Hạng Anh (Premier League). Để nâng cao chiếc cúp vô địch sau 38 vòng đấu khốc liệt:\n* Họ có cần phải thắng tất cả 38 trận không? **Không bao giờ.**\n* Sẽ có những trận họ thắng tưng bừng 4-0. Sẽ có những trận họ bị cầm hòa nhạt nhòa 0-0. Và chắc chắn sẽ có những trận họ thua tan nát trước các đối thủ khó chịu.\n* Nhưng một đội bóng bản lĩnh không sụp đổ chỉ vì một trận thua vào cuối tuần. Họ nhìn vào **bảng tổng sắp cả mùa giải**. Sau 38 vòng, đội nào duy trì được điểm số tích lũy cao nhất, đội đó là nhà vô địch.\n\nCuộc đời của bạn cũng y hệt như vậy:\n\nHãy thử hình dung một chu kỳ điều phối năng lượng mẫu mực trong một năm theo triết lý cân bằng vĩ mô:\n\n* **Giai đoạn 1 (Tháng 1 đến Tháng 3 — Tập trung bứt phá):** Dồn 80% năng lượng cho công việc và 20% cho đời sống riêng để tạo đà tăng trưởng và hoàn thành các mục tiêu tài chính cốt lõi.\n* **Giai đoạn 2 (Tháng 4 — Chậm lại để sạc pin):** Dành trọn vẹn 1 tuần nghỉ ngơi chữa lành, phân bổ 90% thời gian cho gia đình và tái tạo năng lượng thể chất.\n* **Giai đoạn 3 (Tháng 5 đến Tháng 10 — Vận hành ổn định):** Duy trì nhịp 60% công việc và 40% đời sống, tối ưu hóa các đòn bẩy tự động hóa và rèn luyện thói quen tốt.\n* **Tổng kết cả năm:** Điểm số tích lũy chung cuộc đạt mức tối ưu — vừa đạt được thành tựu công việc vững chắc, vừa giữ trọn vẹn sự gắn kết và ấm áp trong gia đình.\n\nĐừng tự đày đọa mình nếu ngày hôm nay bạn phải ở lại công ty làm việc đến 21h đêm và không kịp ăn tối với gia đình. Miễn là bạn hiểu rằng đây là một trận đấu bạn chấp nhận \"hy sinh tạm thời\" cho một chiến dịch ngắn hạn. Sau khi dự án kết thúc, bạn chủ động bù đắp bằng một chuyến đi chơi trọn vẹn 3 ngày cuối tuần không mang theo laptop. \n\n* **Trong một giai đoạn:** Sống sót qua mùa dịch được tính là chiến thắng.\n* **Trong một giai đoạn:** Vợ sinh con khỏe mạnh, mẹ tròn con vuông được tính là chiến thắng.\n* **Trong một giai đoạn:** Hoàn thành xong chứng chỉ chuyên môn để lên chức được tính là chiến thắng.\n* **Trong một giai đoạn:** Cứu vãn được sức khỏe sau cơn kiệt sức được tính là chiến thắng.\n\nNgười khôn ngoan không cố gắng thắng trong mọi hiệp đấu của từng ngày. Họ biết rõ mình đang chơi trò chơi gì và phân bổ sức bền để chiến thắng trong cả cuộc đời.\n\n---\n\n### 6. Bộ Quy Tắc Thực Hành: \"Làm Việc Nhanh – Sống Thật Chậm\" (Work Fast, Live Slow)\n\nĐể không bị cuốn vào vòng xoáy áp lực mà vẫn tạo ra kết quả xuất sắc, đây là hai nguyên tắc hành động thực chiến mà bạn có thể áp dụng ngay hôm nay:\n\n#### Nguyên tắc 1: Làm việc nhanh (Work Fast & Deep)\n* **Triệt tiêu ma sát trì hoãn:** Khi đã ngồi vào bàn làm việc, hãy sử dụng quy tắc **Dòng chảy (Flow State)**. Tắt toàn bộ thông báo điện thoại, đóng các tab mạng xã hội, làm dứt điểm từng việc theo khối thời gian (Time-blocking).\n* **Quy tắc 80/20:** 20% công việc tạo ra 80% kết quả. Hãy xử lý việc quan trọng nhất ngay đầu ngày. Đừng để những việc râu ria làm bạn mất nửa buổi sáng rồi phải ngồi cày đêm bù giờ.\n* **Làm việc nhanh để giải phóng bản thân:** Mục đích của việc làm việc năng suất không phải là để nhận thêm việc, mà là để **mua lại thời gian tự do cho chính mình.**\n\n#### Nguyên tắc 2: Sống thật chậm (Live Slow & Present)\n* **Giảm tốc độ thần kinh khi bước qua cánh cửa nhà:** Khi tan sở về đến nhà, hãy học cách \"cởi bỏ chiếc áo giáp chiến binh\". Hít thở sâu ba nhịp trước khi vặn tay nắm cửa.\n* **Hiệu ứng Hiện diện Tuyệt đối:** Khi ăn cơm cùng vợ, hãy thực sự nếm vị ngọt của hạt cơm, lắng nghe giọng nói của bạn đời. Khi chơi với con, hãy biến mình thành một đứa trẻ, lăn lộn cùng con trên sàn nhà mà không liếc mắt nhìn màn hình điện thoại một lần nào.\n* **Tích hợp cuộc sống và công việc (Life Integration):** Tìm kiếm những điểm giao thoa lành mạnh. Bạn yêu thích du lịch, cà phê hay cắm trại? Hãy biến những sở thích đó thành không gian gắn kết gia đình, đồng thời học hỏi thêm những góc nhìn mới để làm giàu cho tư duy công việc. Khi cuộc sống và công việc hỗ trợ nhau thay vì triệt tiêu nhau, bạn sẽ đạt được trạng thái bình an nội tại.\n\n---\n\n### 7. Lời Nhắn Gửi Từ Trại Cai Nghiện\n\nBạn thân mến,\n\nHình ảnh một chú hề đi trên dây xiếc loạng choạng từng bước là bức tranh chân thực nhất về cuộc đời của mỗi chúng ta. Có những ngày bạn sẽ nghiêng hẳn về công việc. Có những ngày bạn sẽ chao đảo vì những lo toan gia đình. \n\nNhưng xin bạn đừng bao giờ nhìn sự loạng choạng đó như một bằng chứng của sự thất bại. **Chính sự điều chỉnh liên tục sau mỗi lần mất thăng bằng mới là bản chất của sự sống.**\n\nCuộc sống không phải là một bức tranh tĩnh vật hoàn mỹ để bạn đóng khung treo lên tường ngắm nghía. Cuộc sống là một dòng sông luôn cuộn chảy. Hãy tha thứ cho những ngày bạn lỡ ăn một gói xôi vội vã ven đường, tha thứ cho những buổi tối bạn mệt mỏi không thể đọc sách, và dũng cảm buông bỏ ảo tưởng về một sự cân bằng tuyệt đối.\n\nHãy sống như một dòng nước: gặp ghềnh đá thì chia nhánh, gặp chỗ trũng thì lấp đầy, và luôn biết rõ bến đỗ bình yên cuối cùng của đời mình là ở đâu.\n\n---\n\n### 📌 NHỮNG ĐIỂM CHÍNH (KEY TAKEAWAYS)\n\n1. **Ảo tưởng Work-Life Balance:** Công việc không đối lập với cuộc sống, mà là một phần hữu cơ của cuộc sống. Cố gắng chia đều 50/50 mỗi ngày chỉ tạo ra cảm giác tội lỗi mãn tính và kiệt quệ tinh thần.\n2. **Cạm bẫy Tiêu chuẩn cao:** Rất nhiều người nghĩ mình thiếu thời gian, nhưng thực chất là do chủ nghĩa hoàn hảo đặt ra những tiêu chuẩn quá xa vời (du lịch phải sang chảnh, tập gym phải có PT, đọc sách phải ngồi cà phê 3 tiếng).\n3. **Cân Bằng Động (Allostasis):** Cơ thể và tâm trí con người vận hành theo cơ chế thích ứng động. Cân bằng thực sự là khả năng điều chỉnh thứ tự ưu tiên linh hoạt theo từng giai đoạn và thời điểm.\n4. **Ba giai đoạn sự nghiệp:**\n   * *Giai đoạn 1 (Xây nền tảng):* Chấp nhận cày cuốc, nỗ lực 100% để tích lũy kỹ năng và tạo đà bật nhảy.\n   * *Giai đoạn 2 (Trưởng thành & Gia đình):* Chuyển sang công việc có đòn bẩy cao, học cách nói KHÔNG và tạm gác sở thích cá nhân vì trách nhiệm gia đình.\n   * *Giai đoạn 3 (Tự chủ & Biết đủ):* Đạt ngưỡng biết đủ về tài chính để có quyền tự do lựa chọn công việc và sống cho những đam mê sâu sắc.\n5. **Cân bằng vĩ mô (Macro-Balance):** Đừng đo sự cân bằng theo từng 24 giờ. Hãy nhìn theo chu kỳ tháng, quý hoặc năm như một đội bóng vô địch giải Ngoại Hạng Anh: không cần thắng mọi trận đấu, chỉ cần điểm số chung cuộc đưa bạn về đích an toàn.\n6. **Làm việc nhanh – Sống thật chậm:** Khi làm việc thì tập trung cao độ để dứt điểm nhanh gọn; khi về nhà thì hiện diện trọn vẹn 100% bên những người yêu thương."
 },
   {
     "slug": "ban-khong-he-luoi-chua-tim-duoc-ban-cong-cua-minh",

diff --git a/.agents/skills/content-quality-standards/SKILL.md b/.agents/skills/content-quality-standards/SKILL.md
@@ -58,10 +58,11 @@ flowchart TD
 5. **Giữ chân High-Retention & Open Loops:** Nhịp câu biến hóa, liên tục đặt câu hỏi lửng thôi thúc đọc hết bài.
 6. **Tiêu đề chuẩn 2 dòng (50 – 62 ký tự):** Giật curiosity hook, vừa khít thẻ card bài viết ngoài trang chủ, **tuyệt đối không bị tràn dòng hay cắt cụt dấu ba chấm `...`**.
 7. **Khối "Những Điểm Chính" (Key Takeaways) ở CUỐI BÀI:** Bắt buộc đặt sau mục *Lời nhắn gửi từ Trại Cai Nghiện*, cấm đặt đầu bài.
-8. **CẤM TUYỆT ĐỐI HÌNH ẢNH DẠNG KÝ TỰ - BẮT BUỘC DÙNG ẢNH PICTURE THẬT (LỆNH ĐẶC BIỆT CỦA BỐ):**
+8. **CẤM TUYỆT ĐỐI HÌNH ẢNH DẠNG KÝ TỰ & BẢNG KÝ TỰ RÁC MẮT (LỆNH ĐẶC BIỆT CỦA BỐ):**
    - Tuyệt đối nghiêm cấm ký tự thô (`╭───╮`, `▲`, `│`, `└──►`), khối text code mô phỏng hoặc vẽ hình/đồ thị minh họa bằng text.
+   - **Tuyệt đối không chèn cú pháp bảng markdown thô (`| :--- | :--- |`):** Tránh việc vỡ vụn layout và hiện mớ ký tự pipe `|` gây khó hiểu, rác mắt cho người đọc. Bắt buộc so sánh bằng văn phong mượt mà, gạch đầu dòng in đậm rõ ràng.
    - **Bắt buộc dùng hình ảnh dạng picture thật sự (WebP/PNG):** Mọi biểu đồ, đồ thị, sơ đồ phân nhánh hay minh họa số liệu đều phải là file hình ảnh thật sự, được lưu tại `public/images/articles/` và nhúng bằng thẻ ảnh `![Tên hình ảnh](/images/articles/ten-anh.webp)`.
-   - **Agent 5 quét thấy bất kỳ hình ảnh nào vẽ bằng ký tự là REJECT NGAY LẬP TỨC.**
+   - **Agent 5 quét thấy bất kỳ hình ảnh nào vẽ bằng ký tự hoặc bảng ký tự thô là REJECT NGAY LẬP TỨC.**
 9. **Định dạng Markdown dễ thở:** Mỗi đoạn tối đa 2–4 câu. Cú pháp Heading chuẩn (`## ` H2, `### ` H3, `#### ` H4) luôn có dòng trống phân cách.
 10. **Mỹ cảm Zen Minimalist:** Nội dung toát lên sự tĩnh lặng, sâu sắc, chữa lành.
 11. **Hình ảnh & SEO:** Thumbnail WebP 16:9 dưới 120KB, có Watermark mờ `🌿 TRẠI CAI NGHIỆN`, tên file chuẩn SEO và thẻ Alt Text đầy đủ.
@@ -102,7 +103,8 @@ flowchart TD
 *(Kiểm tra toàn bộ hình ảnh website, thumbnail video, infographic và ảnh quote)*
 
 ### 6 Tiêu Chí Bắt Buộc Của Cổng Visual:
-1. **Bản sắc thị giác Zen Minimalist Á Đông:**
+1. **Bản sắc thị giác Zen Minimalist Á Đông (BẮT BUỘC DẠNG TRANH VẼ ĐỒNG BỘ - LỆNH CỦA BỐ):**
+   * **100% THUMBNAIL PHẢI LÀ TRANH VẼ MINH HỌA (ILLUSTRATION):** Tuyệt đối **CẤM DÙNG ẢNH CHỤP THỰC TẾ (REALISTIC PHOTOGRAPH)**. Toàn bộ ảnh đại diện bài viết bắt buộc phải là tranh vẽ theo phong cách **Màu Nước & Thủy Mặc Zen Minimalist (Zen Watercolor & Ink Wash)** để đồng bộ tuyệt đối với toàn bộ kho bài viết của Trại Cai Nghiện.
    * Bảng màu chuẩn mực nhận diện:
      * `Xanh Rêu Rừng (#3A5A40)`: Tĩnh lặng, hồi sinh.
      * `Be Ấm / Giấy Mộc (#FAF7F2, #E6E1D8)`: Màu nền dịu mắt, ấm áp như trang sách.
@@ -122,9 +124,9 @@ flowchart TD
 5. **Quy chuẩn SEO Tên File & Thẻ Alt:**
    * Tên file không dấu, ngăn cách bằng dấu gạch ngang, chứa từ khóa chính + thương hiệu (Ví dụ: `cai-nghien-dien-thoai-trai-cai-nghien.webp`).
    * Thẻ Alt Text tự nhiên mô tả đúng nội dung ảnh và chứa từ khóa.
-6. **Typography trên ảnh (nếu có chữ):**
-   * Tối đa 5–7 chữ trên một ảnh, không nhồi nhét chữ làm rối mắt.
-   * Font chữ có chân cổ điển hoặc sans-serif tối giản, khoảng cách chữ thoáng đãng, không díu dấu tiếng Việt.
+6. **Typography & Thiết kế Infographic (CHỈN CHU, KHÔNG TRÀN CHỮ - LỆNH CỦA BỐ):**
+   * Mọi sơ đồ, Infographic hoặc box nội dung phải được căn lề hoàn hảo: **Tuyệt đối không để chữ tràn ra ngoài viền box**, không đè chữ lên nhau, ngắt dòng thông minh theo cụm từ.
+   * Font chữ thanh lịch, khoảng cách chữ và dòng thoáng đãng, dễ đọc rõ nét trên điện thoại.
 
 ---
 
